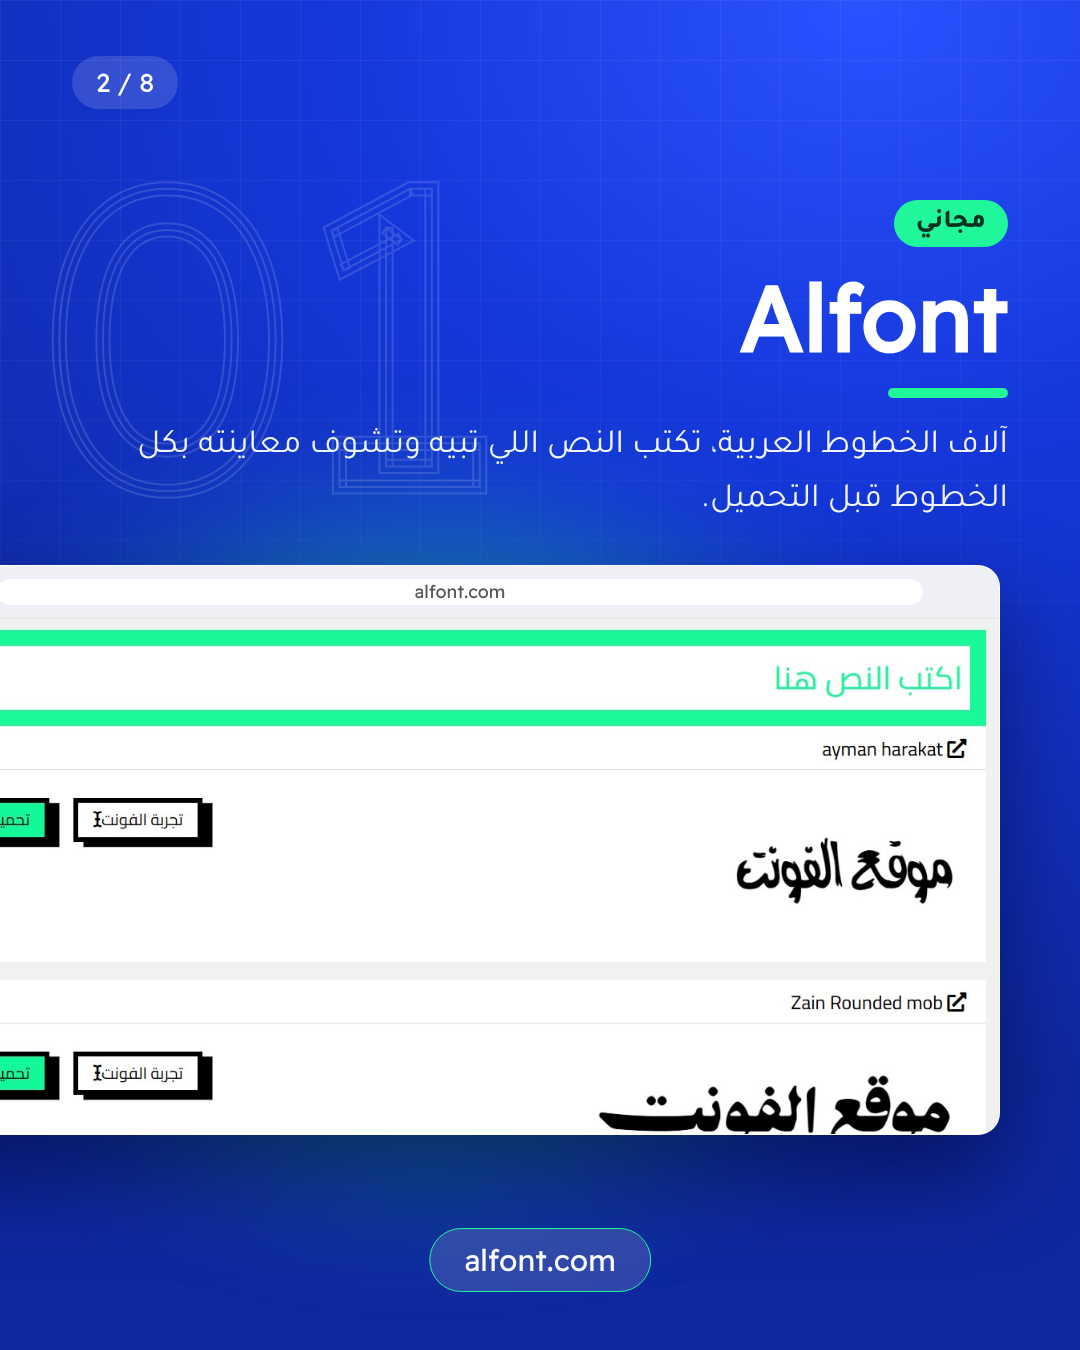
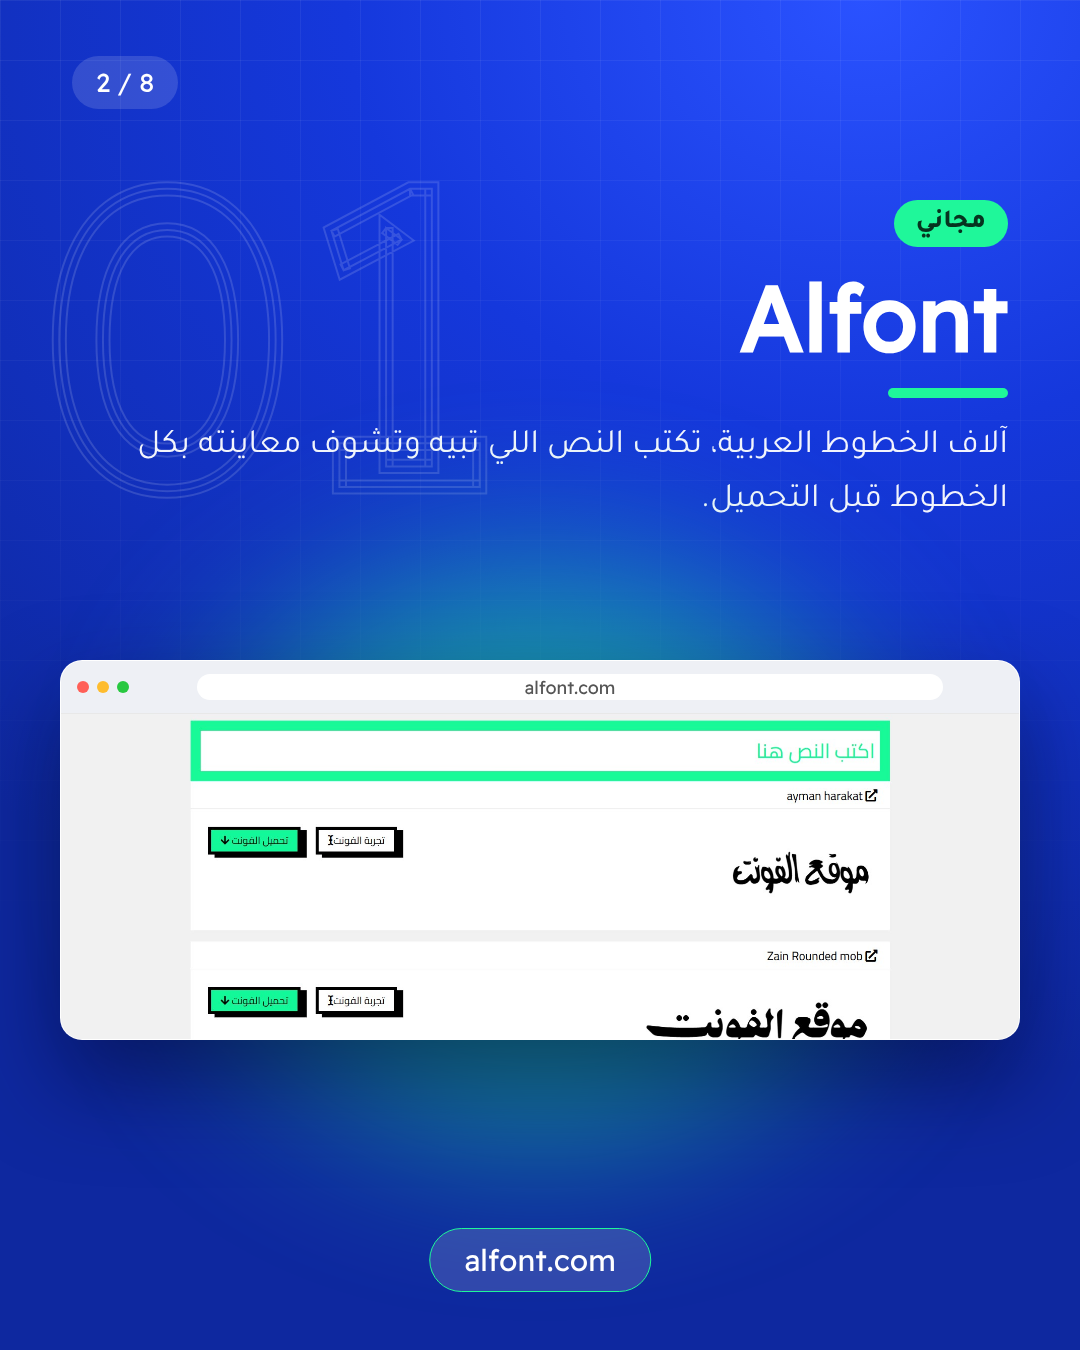
Show full screenshots centred with side margins
Claude-Session: https://claude.ai/code/session_01HmuEa4Kje77rHMqSMNYbVn

Changed region(s): [[0.0, 0.4044, 0.9472, 0.9022]]

diff --git a/arabic-fonts-posts/build.py b/arabic-fonts-posts/build.py
@@ -5,17 +5,17 @@ HERE = pathlib.Path(__file__).parent
 BLUE, DARK = "#1538dc", "#0e289f"
 
 SITES = [
- dict(n="01", acc="#1ff79a", ink="#06331f", lay="bleed-l", name="Alfont", url="alfont.com", tag="مجاني",
+ dict(n="01", acc="#1ff79a", ink="#06331f", lay="bottom", name="Alfont", url="alfont.com", tag="مجاني",
       desc="آلاف الخطوط العربية، تكتب النص اللي تبيه وتشوف معاينته بكل الخطوط قبل التحميل.", fonts=[]),
  dict(n="02", acc="#e0458f", ink="#fff", lay="top", name="Arbfonts", url="arbfonts.com", tag="مجاني",
       desc="عرب فونتس، من أكبر مواقع الخطوط العربية، فيه أكثر من 12 ألف خط مقسّمة: رقعة، ثلث، ديواني وكوفي.", fonts=[]),
- dict(n="03", acc="#ffffff", ink="#111", lay="tilt", name="1001 Free Fonts", url="1001freefonts.com", tag="مجاني",
+ dict(n="03", acc="#ffffff", ink="#111", lay="bottom", name="1001 Free Fonts", url="1001freefonts.com", tag="مجاني",
       desc="موقع خطوط عالمي فيه قسم كامل للخطوط العربية. انتبه لرخصة كل خط قبل الاستخدام التجاري.", fonts=[]),
- dict(n="04", acc="#ff4b55", ink="#fff", lay="bleed-r", name="29LT", url="29lt.com", tag="احترافي",
+ dict(n="04", acc="#ff4b55", ink="#fff", lay="bottom", name="29LT", url="29lt.com", tag="احترافي",
       desc="مسبك خطوط عربي احترافي، خطوطه مصممة بعناية ومعها خط لاتيني متناسق.", fonts=[]),
  dict(n="05", acc="#ff3b2f", ink="#fff", lay="top", name="Adobe Fonts", url="fonts.adobe.com", tag="مع الاشتراك",
       desc="متاح مع اشتراك أدوبي، يتفعّل الخط مباشرة داخل فوتوشوب وإليستريتور.", fonts=[]),
- dict(n="06", acc="#7fb2ff", ink="#08245c", lay="tilt", name="MyFonts", url="myfonts.com", tag="مدفوع",
+ dict(n="06", acc="#7fb2ff", ink="#08245c", lay="bottom", name="MyFonts", url="myfonts.com", tag="مدفوع",
       desc="من أكبر أسواق الخطوط بالعالم، فيه أكثر من 400 ألف خط منها خطوط عربية احترافية.", fonts=[]),
 ]
 SAMPLE = "تصميم مميز"
@@ -94,6 +94,7 @@ def screen(s):
     return bar + f"""<div class="page"><div class="ph"><b>{s['name']}</b><div class="search">ابحث عن خط...</div></div><div class="cards">{cards}</div></div>"""
 
 LAYOUT_CSS = f"""
+.L-bottom .area{{top:500px;bottom:150px;left:60px;right:60px}}
 .L-bleed-r .area{{top:500px;bottom:150px;left:80px;right:-140px}}
 .L-bleed-r .win{{border-radius:22px 0 0 22px}}
 .L-bleed-l .area{{top:500px;bottom:150px;left:-140px;right:80px}}
